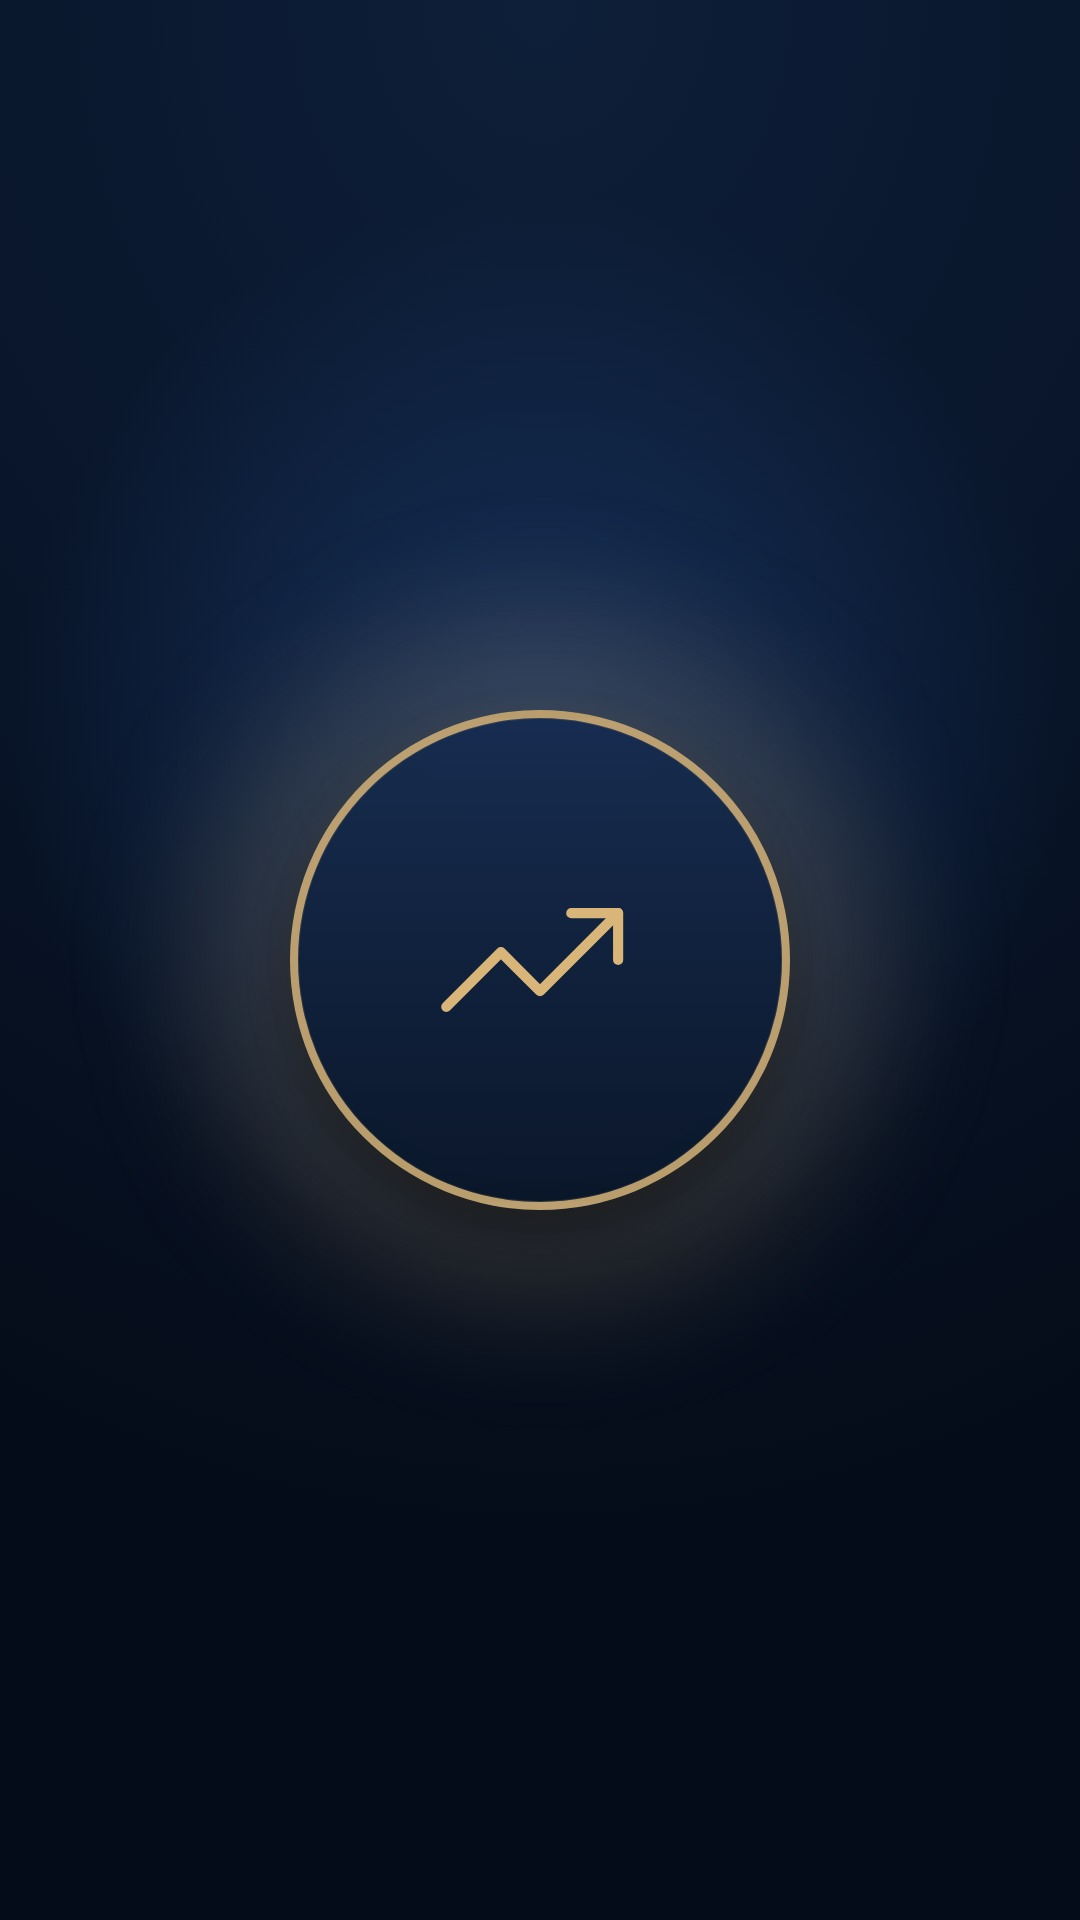
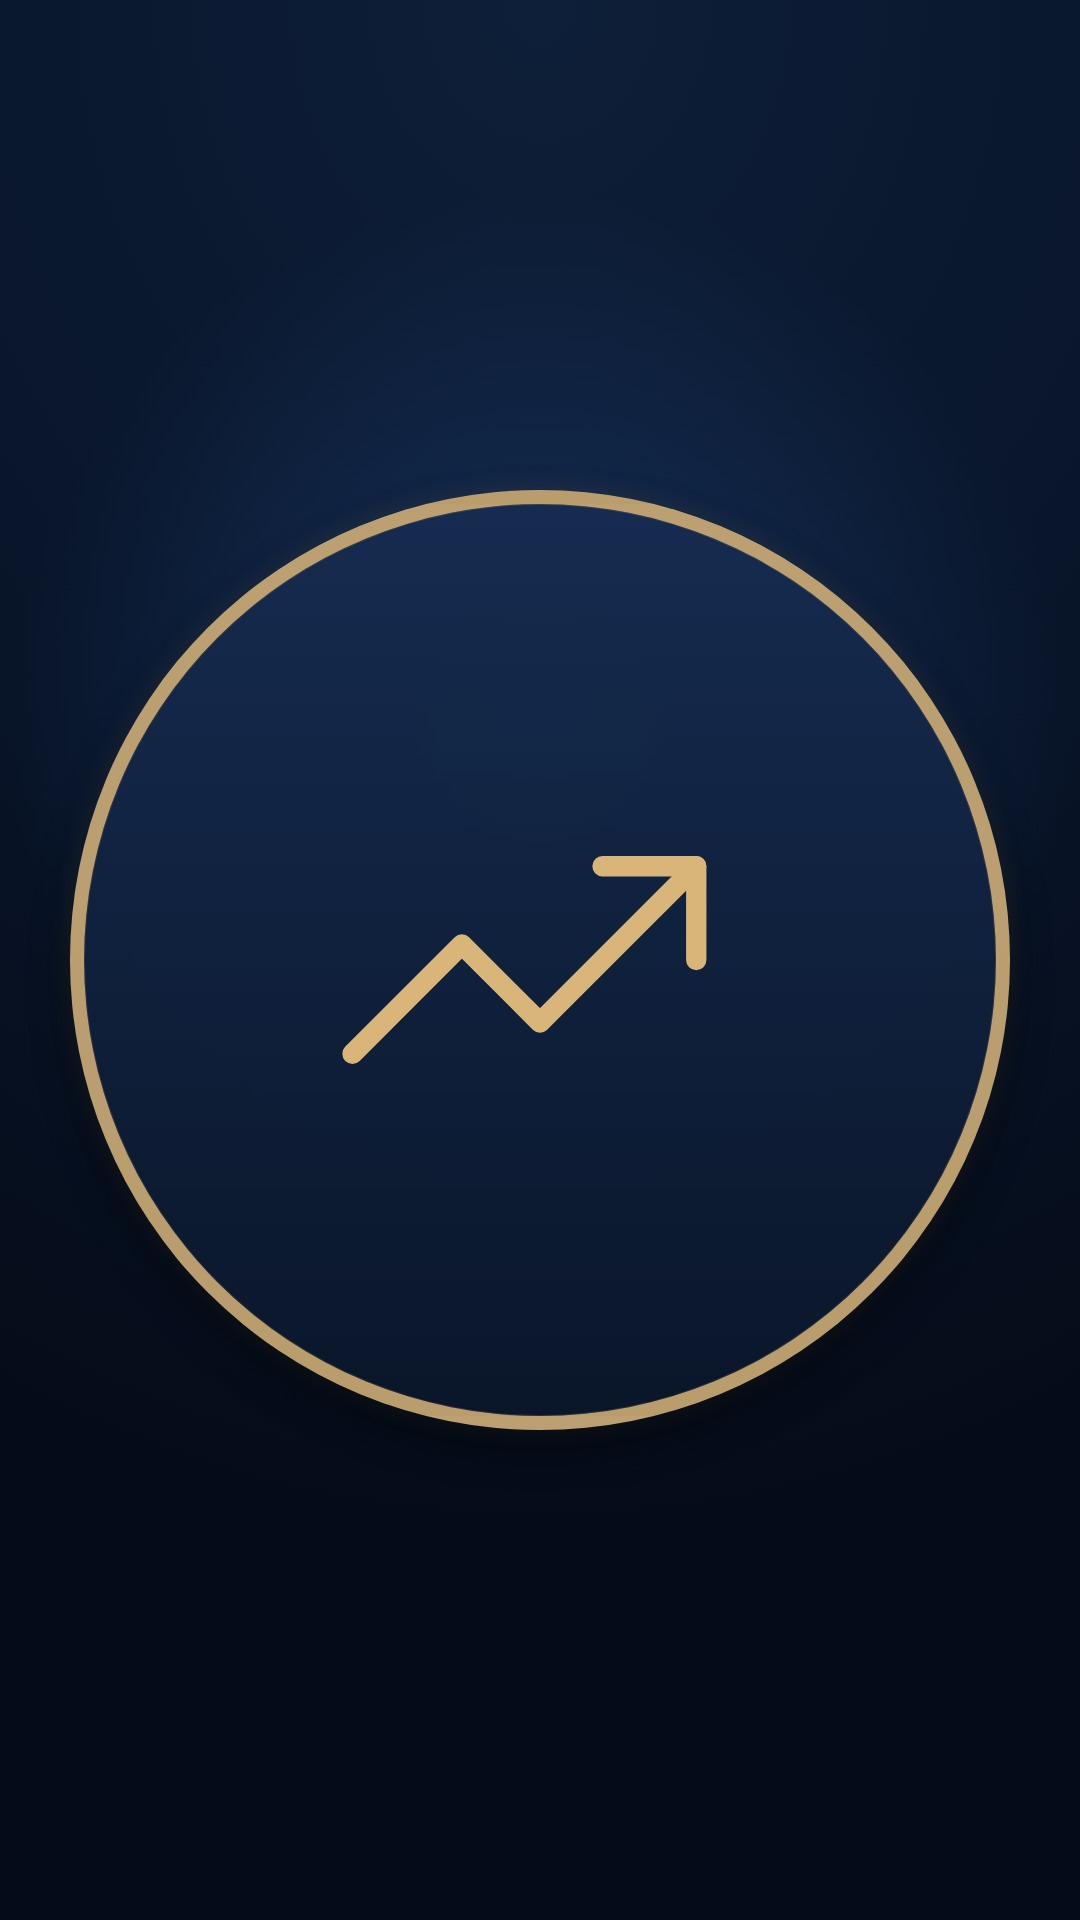
Capas dos destaques com ícone maior
Claude-Session: https://claude.ai/code/session_015GedZDBAbo5UXguL4xgzcd

diff --git a/gerador/especiais/destaques-15-11.py b/gerador/especiais/destaques-15-11.py
@@ -13,8 +13,7 @@ def tit(l):
 
 def capa(ic):
     return f'''<div class="arte" style="width:{W}px;height:{H}px">
-  <div class="glow" style="width:700px;height:700px;left:190px;top:610px;background:rgba(217,181,121,.16)"></div>
-  <div class="card" style="position:absolute;left:290px;top:710px;width:500px;height:500px;border-radius:50%;border-width:8px;display:flex;align-items:center;justify-content:center">{G.icone(ic, 250)}</div></div>'''
+  <div class="card" style="position:absolute;left:70px;top:490px;width:940px;height:940px;border-radius:50%;border-width:14px;display:flex;align-items:center;justify-content:center">{G.icone(ic, 500)}</div></div>'''
 
 def story(kicker, titulo, sub, cta, fs=100):
     return f'''<div class="arte" style="width:{W}px;height:{H}px">{G.fundo(W, H, .93)}
@@ -29,10 +28,10 @@ def story(kicker, titulo, sub, cta, fs=100):
   <div class="handle" style="bottom:385px;font-size:24px">@fortismatcon.oficial</div></div>'''
 
 itens = [(f"capa-{n}", capa(ic), (W, H)) for n, ic in [("comece-aqui", "seta_acao"), ("mercado", "grafico"), ("dicas", "lampada"), ("flow", "app"), ("obras", "obra"), ("diagnostico", "lupa")]]
-itens += [
+itens_st = [
  ("comece-1", story("COMECE AQUI", ["GESTÃO PARA LOJAS", "DE MATERIAL DE CONSTRUÇÃO"], "A Fortís trabalha <b>só com o varejo MATCON</b>: compras, equipe e números organizados, de loja em loja, lado a lado com o dono.", "Seja bem-vindo.", 84), (W, H)),
  ("comece-2", story("O QUE VOCÊ ENCONTRA AQUI", ["CONTEÚDO PARA", "QUEM VIVE O BALCÃO"], "<b>12h:</b> notícias do mercado de material de construção.<br><b>18h:</b> dicas técnicas de produto.<br><b>No feed:</b> gestão de loja na prática.", "Tudo com fonte e sem enrolação.", 92), (W, H)),
  ("comece-3", story("FALE COM A GENTE", ["SUA LOJA TEM", "UMA DÚVIDA?"], "Mande uma mensagem aqui no <b>direct</b> ou no WhatsApp <b>(31) 99898-1530</b>.", "Quem responde conhece loja por dentro.", 100), (W, H)),
  ("diagnostico-1", story("DIAGNÓSTICO SEM CUSTO", ["15 MINUTOS", "SOBRE A SUA LOJA"], "Uma conversa rápida, <b>por vídeo ou na loja</b>, para enxergar onde estão os gargalos de compras, equipe e margem.", "WhatsApp <b>(31) 99898-1530</b>", 104), (W, H)),
 ]
-asyncio.run(G.renderizar(itens, os.path.join(G.RAIZ, 'posts', '2026-11', 'destaques')))
+asyncio.run(G.renderizar(itens if '--capas' in sys.argv else itens + itens_st, os.path.join(G.RAIZ, 'posts', '2026-11', 'destaques')))
